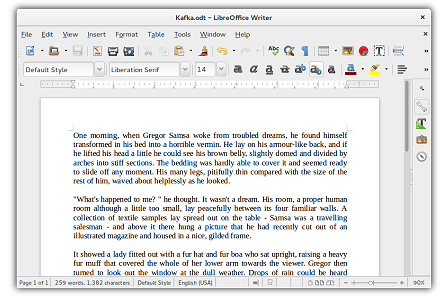
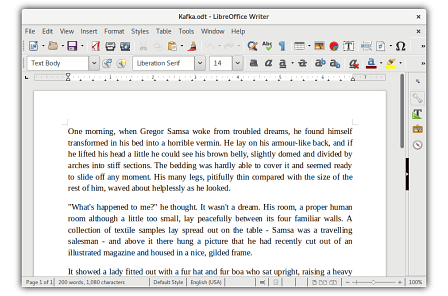
Updated Ubuntu GNOME 16.10 screenshots

Changed region(s): [[0.0, 0.0, 1.0, 1.0]]

diff --git a/slideshows/ubuntu-gnome/slides/welcome.html b/slideshows/ubuntu-gnome/slides/welcome.html
@@ -1,5 +1,5 @@
 <div class="header">
-	<h1 class="slidetitle">Welcome to Ubuntu GNOME 16.04</h1>
+	<h1 class="slidetitle">Welcome to Ubuntu GNOME 16.10</h1>
 </div>
 
 <div class="main big">
